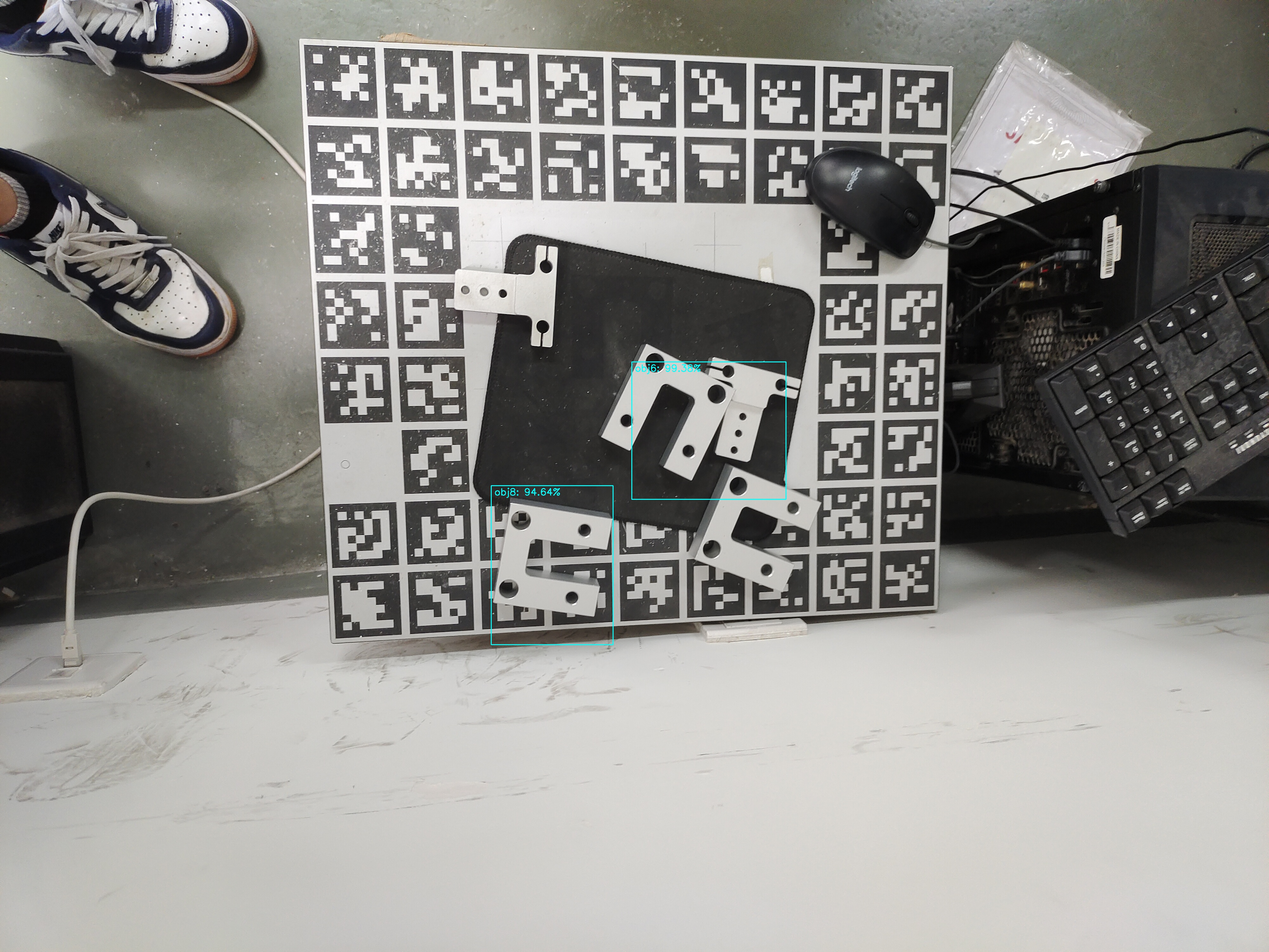
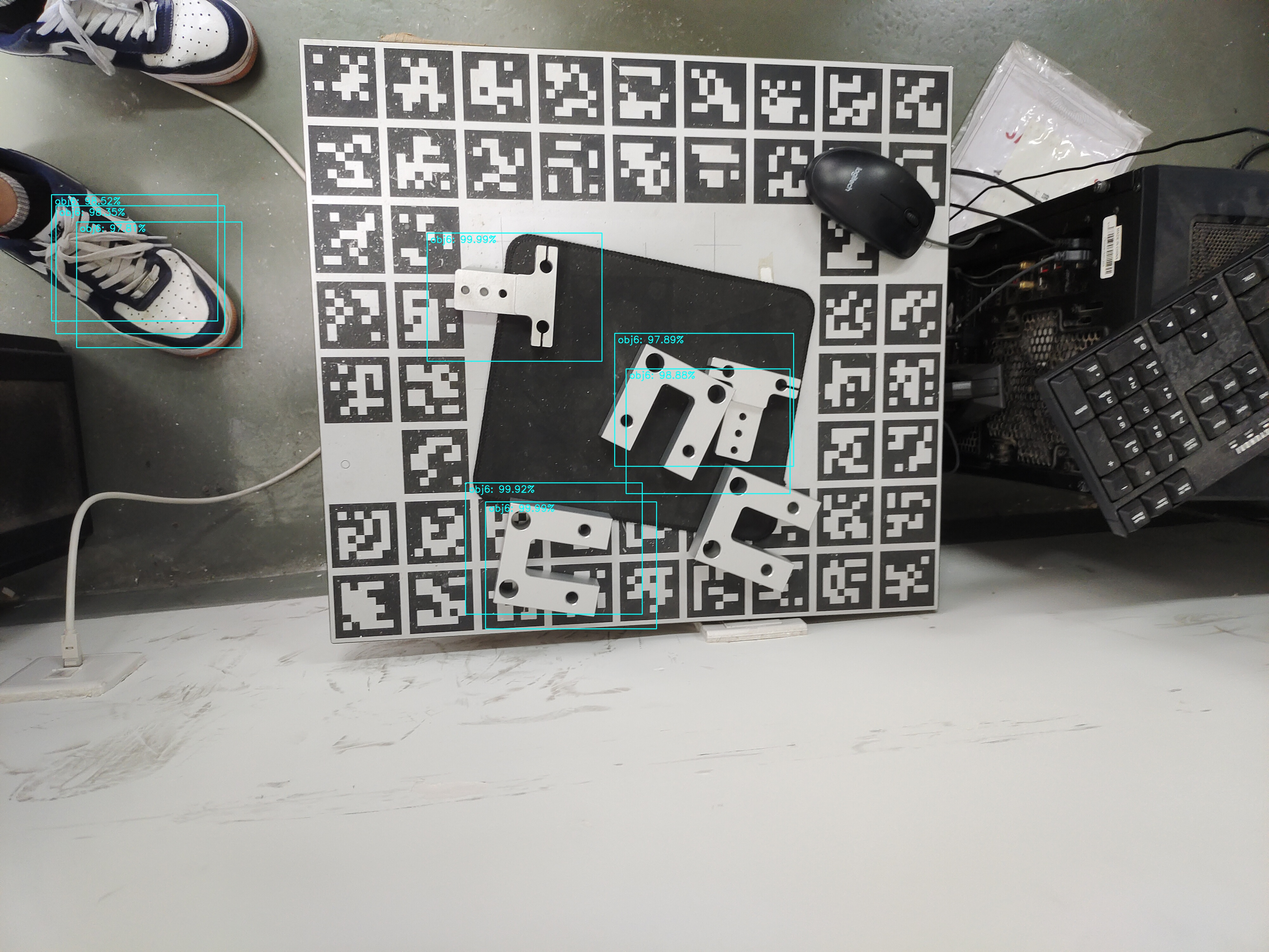
one object situation

diff --git a/util/plot_utils.py b/util/plot_utils.py
@@ -60,7 +60,7 @@ def plot_logs(logs, fields=('class_error', 'loss_bbox_unscaled', 'mAP'), ewm_col
     for df, color in zip(dfs, sns.color_palette(n_colors=len(logs))):
         for j, field in enumerate(fields):
             if field == 'mAP':
-                coco_eval = pd.DataFrame(pd.np.stack(df.test_coco_eval.dropna().values)[:, 1]).ewm(com=ewm_col).mean()
+                coco_eval = pd.DataFrame(pd.np.stack(df.test_coco_eval_bbox.dropna().values)[:, 1]).ewm(com=ewm_col).mean()
                 axs[j].plot(coco_eval, c=color)
             else:
                 df.interpolate().ewm(com=ewm_col).mean().plot(
@@ -109,9 +109,9 @@ def plot_precision_recall(files, naming_scheme='iter'):
 
 
 if __name__ == '__main__':
-    files = list(Path(r'/home/ubuntu/user/zhanghaozheng/Deformable-DETR-main/Deformable-DETR-main-repo/train_result/eval').glob('*.pth'))
+    files = list(Path(r'/home/ubuntu/user/zhanghaozheng/Deformable-DETR-main/Deformable-DETR-main-repo/train_result/class2/2024-10-18 11:15:39/eval').glob('*.pth'))
     plot_precision_recall(files)
     plt.show()
-    plot_logs(logs=Path(r'/home/ubuntu/user/zhanghaozheng/Deformable-DETR-main/Deformable-DETR-main-repo/train_result'),fields=('class_error', 'loss_bbox_unscaled', 'mAP'), ewm_col=0, log_name='log.txt')
+    plot_logs(logs=Path(r'/home/ubuntu/user/zhanghaozheng/Deformable-DETR-main/Deformable-DETR-main-repo/train_result/class2/2024-10-18 11:15:39'),fields=('class_error', 'loss_bbox_unscaled', 'mAP'), ewm_col=0, log_name='log.txt')
     plt.show()
 

diff --git a/constants/train_constant.py b/constants/train_constant.py
@@ -7,7 +7,7 @@ class TrainConstant:
     now = datetime.datetime.now()
     date_time = now.strftime("%Y-%m-%d %H:%M:%S")
 
-    num_classes = 7  # 物体种类 + 1 (因为包含了背景)
+    num_classes = 2  # 物体种类 + 1 (因为包含了背景)
 
     root_path = "/home/ubuntu/user/zhanghaozheng/Deformable-DETR-main"
 
@@ -18,5 +18,5 @@ class TrainConstant:
 
     output_path = os.path.join(root_path, "Deformable-DETR-main-repo", "train_result", "class%d" % num_classes, date_time)
 
-    detect_model_path = os.path.join(root_path, "Deformable-DETR-main-repo", "train_result", "class%d" % num_classes, "2024-07-18 11:49:38", "checkpoint0049.pth")
+    detect_model_path = os.path.join(root_path, "Deformable-DETR-main-repo", "train_result", "class%d" % num_classes, "2024-10-18 11:15:39", "checkpoint0349.pth")
     test_images_path = os.path.join(root_path, "test_images")

diff --git a/test_detect.py b/test_detect.py
@@ -27,7 +27,9 @@ transform = T.Compose([
 # plot box by opencv
 def plot_result(pil_img, prob, boxes, save_name=None, imshow=False, imwrite=True):
     opencvImage = cv2.cvtColor(np.array(pil_img), cv2.COLOR_RGB2BGR)
-    LABEL = ['obj37', 'obj6', 'obj20', 'obj12', 'obj7', 'obj8']
+    # LABEL = ['obj37', 'obj6', 'obj20', 'obj12', 'obj7', 'obj8']
+    LABEL = ['obj6']
+
     for p, (xmin, ymin, xmax, ymax) in zip(prob, boxes):
         cl = p.argmax()
         label_text = '{}: {}%'.format(LABEL[cl], round(p[cl] * 100, 2))
@@ -77,7 +79,7 @@ def load_model(model_path, args):
 
 
 # 图像的推断
-def detect(im, model, transform, prob_threshold=0.7):
+def detect(im, model, transform, prob_threshold=0.97):
     # mean-std normalize the input image (batch-size: 1)
     img = transform(im).unsqueeze(0)
 

diff --git a/main.py b/main.py
@@ -40,7 +40,7 @@ def get_args_parser():
     parser.add_argument('--lr_linear_proj_mult', default=0.1, type=float)
     parser.add_argument('--batch_size', default=2, type=int)
     parser.add_argument('--weight_decay', default=1e-4, type=float)
-    parser.add_argument('--epochs', default=50, type=int)
+    parser.add_argument('--epochs', default=500, type=int)
     parser.add_argument('--lr_drop', default=40, type=int)
     parser.add_argument('--lr_drop_epochs', default=None, type=int, nargs='+')
     parser.add_argument('--clip_max_norm', default=0.1, type=float,
